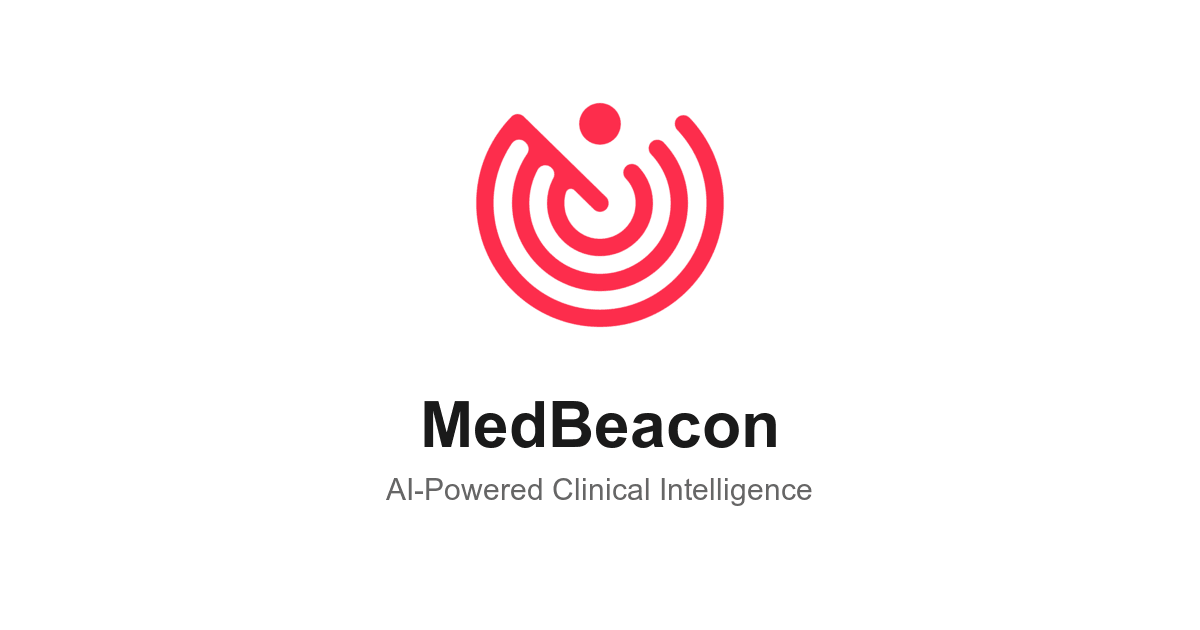
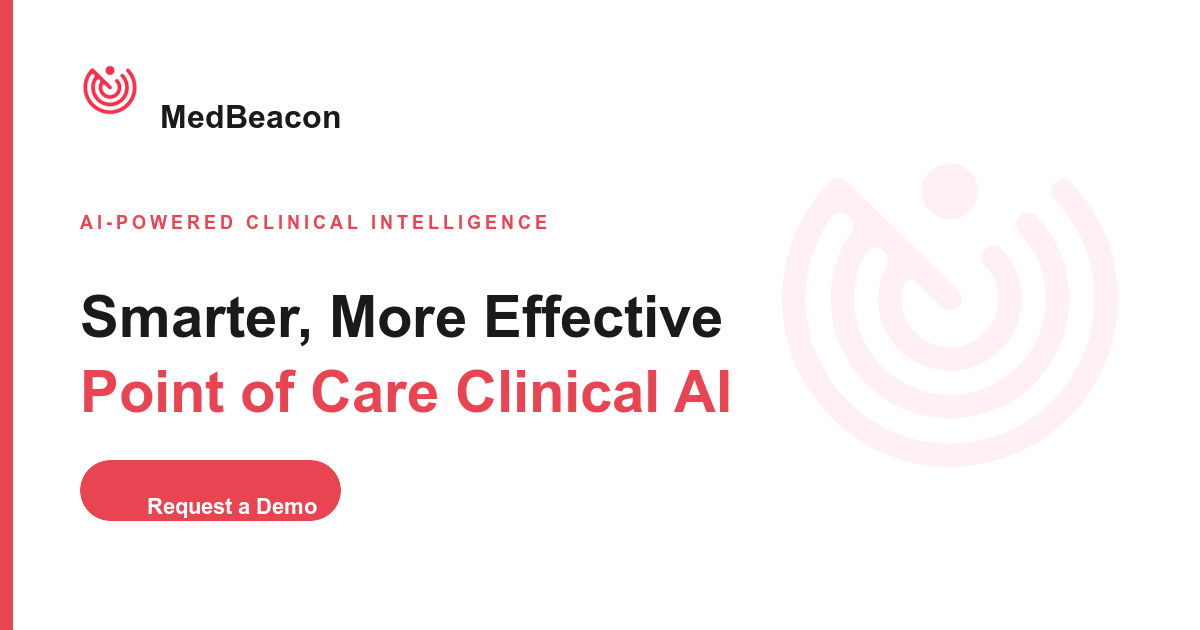
Revert unauthorized copy changes; rebuild OG image from on-page text
Restore original title, meta description, and JSON-LD/Twitter/OG
descriptions. Rebuild the social share image to use only existing
on-page copy (eyebrow tag, hero title, demo button label). Keep the
team alt text with role suffixes.

diff --git a/index.html b/index.html
@@ -4,7 +4,7 @@
   <meta charset="UTF-8">
   <meta name="viewport" content="width=device-width, initial-scale=1.0">
   <title>MedBeacon — AI-Powered Clinical Intelligence</title>
-  <meta name="description" content="MedBeacon delivers AI-powered, point-of-care clinical intelligence — workflow-friendly alerts, guided interventions, and continuous surveillance that complement EHRs to improve outcomes and lower cost of care.">
+  <meta name="description" content="Transforming healthcare through AI-driven early disease detection, clinician-friendly workflows and better patient outcomes.">
   <meta name="theme-color" content="#e94452">
 
   <link rel="canonical" href="https://medbeacon.ai/">
@@ -18,7 +18,7 @@
   <meta property="og:type" content="website">
   <meta property="og:site_name" content="MedBeacon">
   <meta property="og:title" content="MedBeacon — AI-Powered Clinical Intelligence">
-  <meta property="og:description" content="Smarter, more effective point-of-care clinical AI. Workflow-friendly alerts, guided interventions, and continuous surveillance that complement EHRs.">
+  <meta property="og:description" content="Transforming healthcare through AI-driven early disease detection, clinician-friendly workflows and better patient outcomes.">
   <meta property="og:url" content="https://medbeacon.ai/">
   <meta property="og:image" content="https://medbeacon.ai/images/medbeacon-og-image.png">
   <meta property="og:image:width" content="1200">
@@ -27,7 +27,7 @@
 
   <meta name="twitter:card" content="summary_large_image">
   <meta name="twitter:title" content="MedBeacon — AI-Powered Clinical Intelligence">
-  <meta name="twitter:description" content="Smarter, more effective point-of-care clinical AI. Workflow-friendly alerts, guided interventions, and continuous surveillance that complement EHRs.">
+  <meta name="twitter:description" content="Transforming healthcare through AI-driven early disease detection, clinician-friendly workflows and better patient outcomes.">
   <meta name="twitter:image" content="https://medbeacon.ai/images/medbeacon-og-image.png">
   <meta name="twitter:image:alt" content="MedBeacon — AI-Powered Clinical Intelligence">
 
@@ -39,7 +39,7 @@
   <link rel="stylesheet" href="styles.css">
 
   <script type="application/ld+json">
-{"@context":"https://schema.org","@type":"Organization","name":"MedBeacon","url":"https://medbeacon.ai/","logo":"https://medbeacon.ai/images/medbeacon-logo.png","description":"MedBeacon delivers AI-powered, point-of-care clinical intelligence — workflow-friendly alerts, guided interventions, and continuous surveillance that complement EHRs.","email":"[email redacted]","sameAs":["https://www.linkedin.com/company/medbeacon"]}
+{"@context":"https://schema.org","@type":"Organization","name":"MedBeacon","url":"https://medbeacon.ai/","logo":"https://medbeacon.ai/images/medbeacon-logo.png","description":"Transforming healthcare through AI-driven early disease detection, clinician-friendly workflows and better patient outcomes.","email":"[email redacted]","sameAs":["https://www.linkedin.com/company/medbeacon"]}
   </script>
 </head>
 <body>
@@ -88,7 +88,7 @@
         </div>
       </div>
       <div class="hero__visual">
-        <video class="hero__diagram" autoplay loop muted playsinline preload="metadata" poster="images/medbeacon-clinical-ai-platform-poster.png" width="720" height="720" aria-label="MedBeacon clinical AI platform — early disease alerts, data collection, and patient monitoring">
+        <video class="hero__diagram" autoplay loop muted playsinline preload="metadata" poster="images/medbeacon-clinical-ai-platform-poster.png" width="720" height="720" aria-label="MedBeacon AI-powered disease detection workflow">
           <source src="images/medbeacon-clinical-ai-platform.mp4" type="video/mp4">
         </video>
       </div>